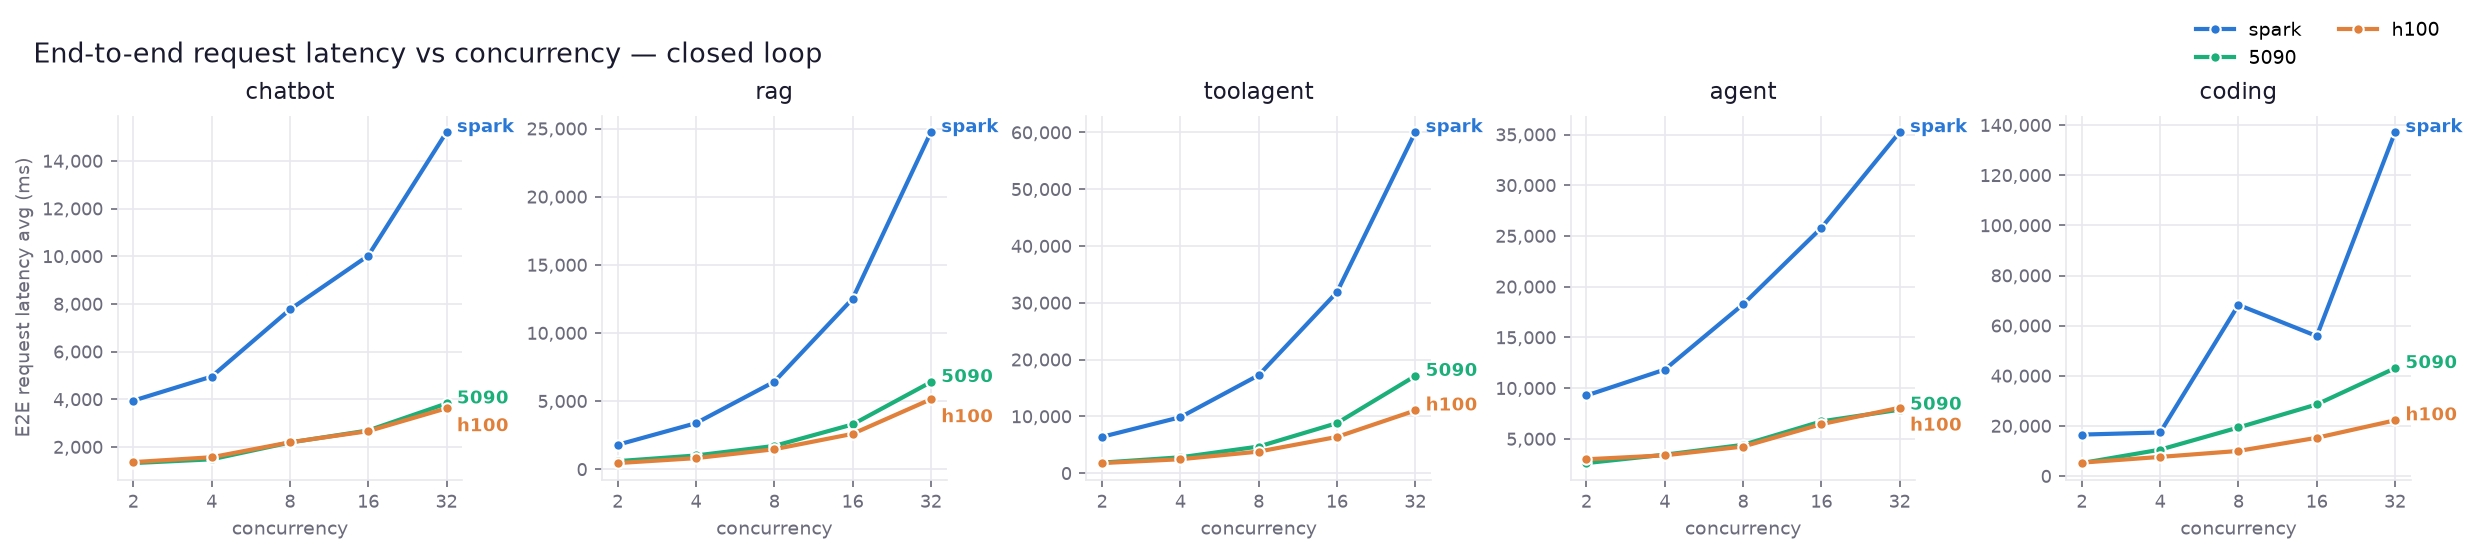
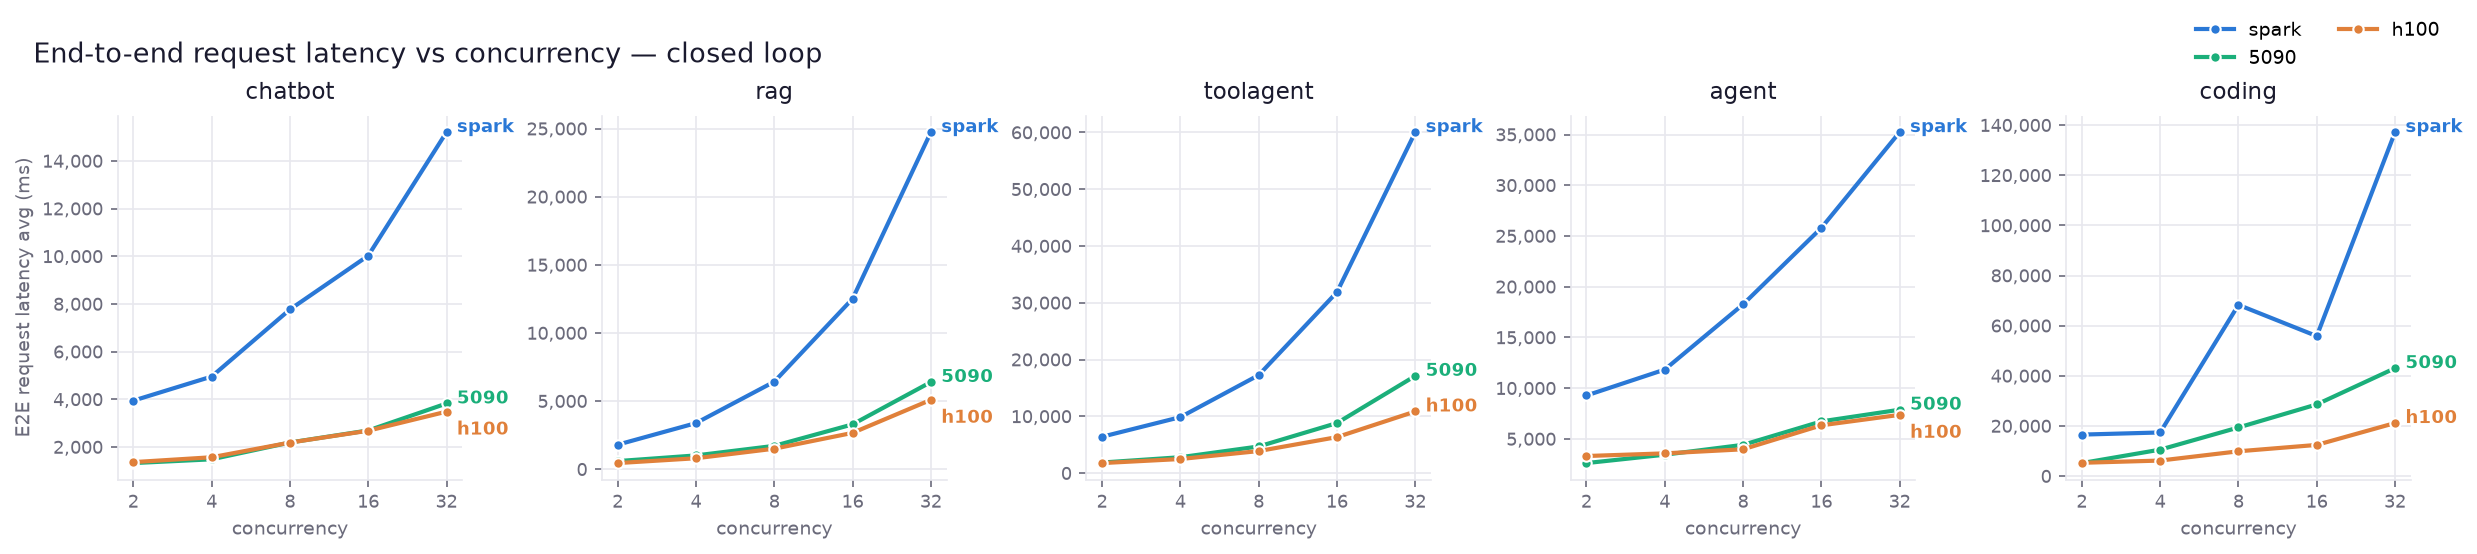
RESULTS + plots: update H100 numbers to the monitored re-run
RESULTS_nvfp4.md H100 tables/prose and all comparison plots now reflect the
Prometheus-scraped re-run (matches the committed per-point CSVs). Deltas are
run-to-run noise (coding c32 1.2->1.3 req/s = 2.2x the 5090, etc).

Claude-Session: https://claude.ai/code/session_016bujdB1i4bAwnwpxPWwZgw

diff --git a/RESULTS_nvfp4.md b/RESULTS_nvfp4.md
@@ -128,24 +128,27 @@ run of the three; whole 40-point sweep in ~2 h. Single H100 (TP=1), no CPU offlo
 
 | workload | H100 Req/s c2→c32 | H100 TTFT avg ms | H100 ITL avg ms | vs 5090 @c32 |
 |---|---|---|---|--:|
-| chatbot | 1.5 / 2.4 / 3.3 / 5.2 / 6.8 | 82 / 78 / 86 / 91 / 131 | 6 / 7 / 9 / 13 / 17 | ≈ tie |
-| rag | 4.2 / 4.7 / 4.9 / 5.3 / 5.3 | 402 / 717 / 996 / 1,947 / 4,082 | 13 / 32 / 132 / 383 / 634 | **1.2×** |
-| toolagent | 1.1 / 1.6 / 2.0 / 2.4 / 2.6 | 339 / 364 / 582 / 973 / 2,518 | 8 / 11 / 21 / 48 / 119 | **1.5×** |
-| agent | 0.7 / 1.1 / 1.8 / 2.0 / 3.2 | 125 / 130 / 167 / 235 / 578 | 6 / 7 / 9 / 12 / 17 | ≈ tie |
-| coding | 0.4 / 0.5 / 0.8 / 1.0 / 1.2 | 411 / 447 / 624 / 1,230 / 2,991 | 6 / 9 / 14 / 23 / 47 | **2.0×** |
+| chatbot | 1.5 / 2.4 / 3.3 / 5.2 / 7.0 | 77 / 80 / 85 / 93 / 120 | 6 / 7 / 9 / 13 / 17 | ≈ tie |
+| rag | 4.2 / 4.7 / 4.9 / 5.2 / 5.4 | 394 / 684 / 1,102 / 1,929 / 3,937 | 14 / 40 / 137 / 375 / 665 | **1.2×** |
+| toolagent | 1.1 / 1.6 / 2.0 / 2.4 / 2.7 | 345 / 382 / 515 / 1,042 / 2,336 | 8 / 10 / 21 / 50 / 128 | **1.6×** |
+| agent | 0.6 / 1.1 / 1.9 / 2.3 / 3.3 | 123 / 126 / 162 / 226 / 585 | 6 / 7 / 9 / 12 / 17 | ≈ tie |
+| coding | 0.4 / 0.6 / 0.8 / 1.1 / 1.3 | 410 / 449 / 686 / 1,210 / 2,900 | 7 / 9 / 13 / 22 / 41 | **2.2×** |
+
+<sub>Numbers from the monitored re-run (2026-07-13 evening, Prometheus-scraped); within
+run-to-run noise of the first H100 sweep. Per-point CSVs in `results/nvfp4/h100/`.</sub>
 
 **The KV-headroom win (the whole point of the H100 here):** with 2.23M-token KV the prefix
 cache *never collapses*, exactly where the 5090/5080 thrashed —
 
-- **coding**: prefix-hit holds **73% → 67% (c8) → 54% (c32)**; the 5090 and 5080 both fell to
-  **0.1% by c8**. Result: H100 coding throughput is **2× the 5090** at c32 (1.2 vs 0.6 req/s)
-  and TTFT stays 3.0 s where the 5090 blew out to 27 s.
+- **coding**: prefix-hit holds **73% → 69% (c8) → 53% (c32)**; the 5090 and 5080 both fell to
+  **0.1% by c8**. Result: H100 coding throughput is **2.2× the 5090** at c32 (1.3 vs 0.6 req/s)
+  and TTFT stays 2.9 s where the 5090 blew out to 27 s.
 - **toolagent**: hit stays flat at **~18% across c2–c32** (5090 collapsed from c16). H100 leads 1.5×.
 - On **chatbot/agent** (short context, decode-bound) the H100 merely ties the 5090 — no KV
   pressure to relieve, and both are Marlin weight-only so raw decode is comparable.
 
 Fixed-schedule Mooncake replay (same 320-req burst): H100 delivers **2.7 req/s** (Spark 0.5,
-5090 1.5), TTFT avg **28.0 s** (Spark 314.8, 5090 86.5), ITL 77 ms — drains the burst fastest
+5090 1.5), TTFT avg **28.0 s** (Spark 314.8, 5090 86.5), ITL 74 ms — drains the burst fastest
 of the three, its big KV keeping the queue's shared prefixes hot throughout.
 
 **KV usage confirms the headroom** (server-side, scraped via an SSH tunnel Spark→H100 on a
